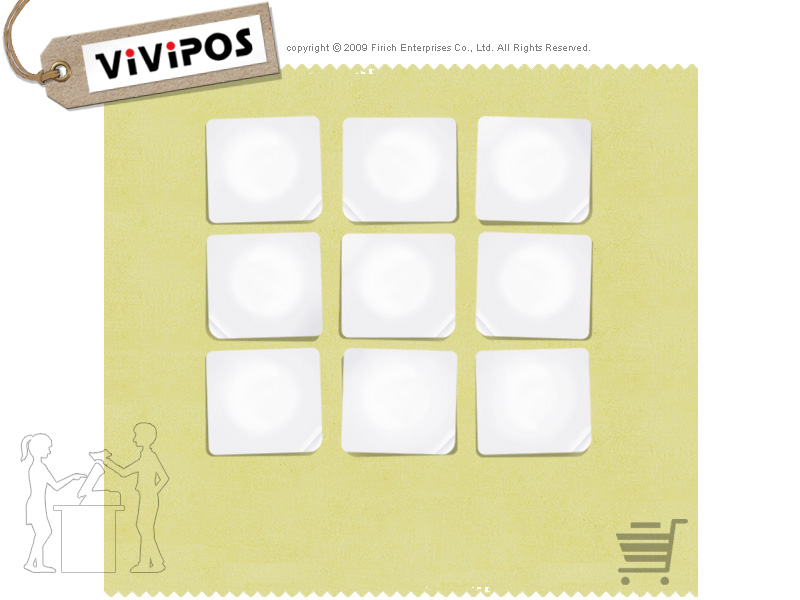
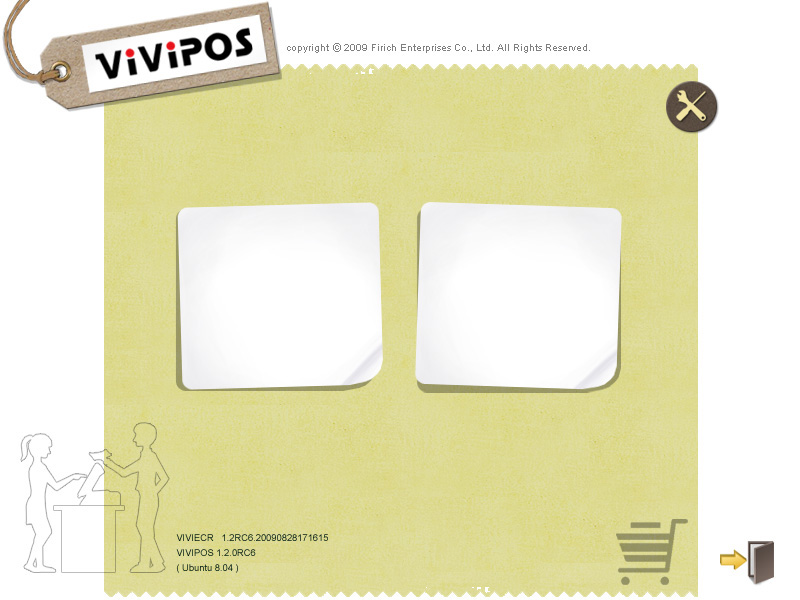
reduced basic control panel to 2 items

diff --git a/skin/jcm-800x600/be/basiccontrolpanel.css b/skin/jcm-800x600/be/basiccontrolpanel.css
@@ -11,33 +11,29 @@
 }
 
 .menubtn {
-  margin-left:200px;
-  margin-top:110px;
-  }
-
-.menubtn vbox
-{
-  max-width:135px;
-  min-width:135px;
-  width:135px;
+  margin-left:180px;
+  margin-top:205px;
   }
 
 .menubtn hbox
 {
-  max-height:115px;
-  min-height:115px;
-  height:115px;
+  max-width:220px;
+  min-width:220px;
+  width:190px;
+  max-height:190px;
+  min-height:190px;
+  height:190px;
   -moz-box-orient: vertical;
   }
 .menubtn button
 {
     
-    min-width:123px;
-    max-width:123px;
-    min-height:110px;
-    max-height:110px;
-    height: 110px;
-    width: 123px;
+    min-width:203px;
+    max-width:203px;
+    min-height:170px;
+    max-height:170px;
+    height: 170px;
+    width: 203px;
     margin: 4px 3px 3px 2px;
     padding: 0px;
     color: black;
@@ -53,17 +49,17 @@
 	cursor: pointer;
 }
 .menubtn image{
-	width: 87px;
-	height: 73px;
+	width: 160px;
+	height: 135px;
 }
 .menubtn description{
 	padding: 5px 0 0 0;
-	width: 87px;
+	width: 160px;
 	height: 25px;
 }
 
 .setting_btn{
-    margin-left:55px;
+    margin-left:40px;
     margin-top:80px;
 }
 
@@ -91,14 +87,14 @@
 {
   color: #041e15;
   font-size:7pt;
-  margin-left:165px;
-  margin-top:75px;
+  margin-left:170px;
+  margin-top:135px;
 }
 
 .exitbtn
 {
-  margin-left:385px;
-  margin-top:80px;
+  margin-left:360px;
+  margin-top:145px;
 }
 
 .exitbtn button
